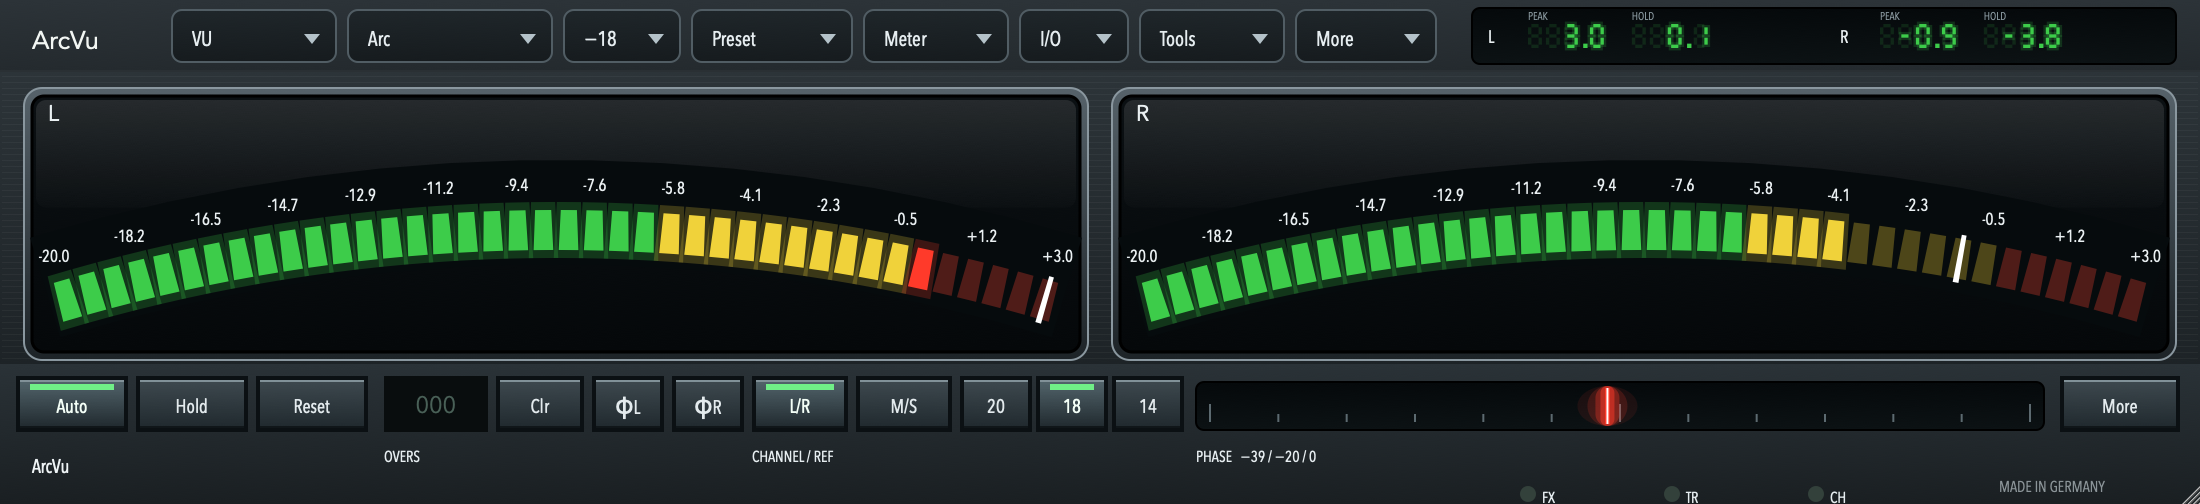
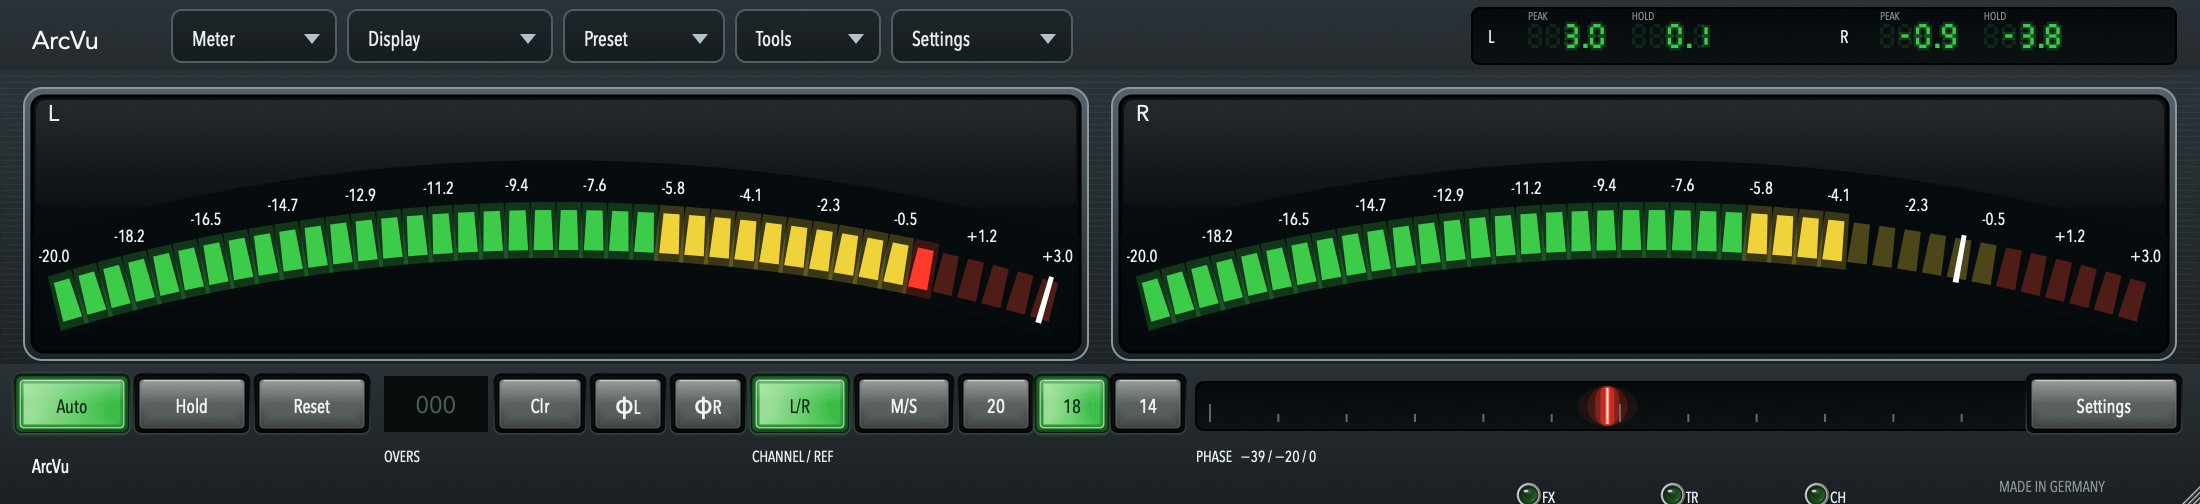
Refresh manual screenshots for the new UI and add the 1.0.1 release notes

diff --git a/qa/UiAudit.cpp b/qa/UiAudit.cpp
@@ -103,6 +103,16 @@ int main(int argc, char** argv) {
         shoot("arcvu-single", 0, 0, 0, 0, 0, true);
         shoot("arcvu-k14", 0, 1, 0, 3, 0, false);
         shoot("arcvu-ppm-ebu", 0, 1, 2, 8, 0, false);
+        // Menu pages at 1x on the Arc face, for the manual.
+        p.setSkin(0); p.setTheme(0);
+        parameter(p, "kind")->setValueNotifyingHost(0.0f);
+        parameter(p, "face")->setValueNotifyingHost(0.0f);
+        parameter(p, "single")->setValueNotifyingHost(0.0f);
+        { float vw = 1100.0f, vh = 500.0f; arcvu_view_size(0, &vw, &vh); e->setSize((int) vw, (int) vh); }
+        process(p); pump();
+        e->showPanel(2); pump(); snapshot(*e, out.getChildFile("arcvu-display-menu.png"));
+        e->parameterPanel()->onNavigate(9); pump(); snapshot(*e, out.getChildFile("arcvu-display-loudness.png"));
+        e->showPanel(6); pump(); snapshot(*e, out.getChildFile("arcvu-tools.png"));
         return failures ? 1 : 0;
     }
     if (argc > 2 && juce::String(argv[1]) == "--icon-render") {

diff --git a/docs/RELEASE_1.0.1.md b/docs/RELEASE_1.0.1.md
@@ -1,0 +1,32 @@
+# ArcVu 1.0.1
+
+A fix and polish release of the digital analogue meter by OpenGrid. Pre-release: it has been tested with the checks listed below, not yet in every host.
+
+## What changed
+
+- Saved sessions, presets and the copy/paste setup now carry a version number, so later builds can add settings without dropping the ones you saved. Sessions saved by 1.0.0 still load. Sessions saved by 1.0.1 do not restore their ArcVu settings in 1.0.0.
+- Fewer rare crashes and glitches: the meter is locked between the audio thread and the editor, a fault inside the meter can no longer take the host down, large host blocks no longer allocate on the audio thread, and the window zoom is saved once a second instead of on every resize step.
+- Lit keys and jewel lamps from GoodLookin DRI 0.2.1.
+- The source builds without private repositories.
+
+## Formats and requirements
+
+macOS 11 or later, Apple Silicon and Intel: VST3, Audio Unit, CLAP, LV2, AAX and Standalone. Windows and Linux packages are not part of this release.
+
+## Install
+
+Open the `.pkg` (or the DMG that holds it) and choose the formats you want.
+
+## Checks it passed
+
+Rust unit tests (74), the offscreen editor audit (983 checks, 0 failures), the state, real-time, key and detector test modes, `auval` for the Audio Unit, and the REAPER host suite for CLAP (all 9 checks).
+
+## Known limits
+
+- In the REAPER host suite, VST3, Audio Unit and LV2 fail the "state survives save and reopen" check. The signed 1.0.0 release fails the VST3 check the same way in the same REAPER, and the same code passes in CLAP and in a headless round trip, so it is a host-side difference that has not been explained. The Audio Unit and LV2 results match what 1.0.0 showed in October.
+- AAX is signed with PACE but has not been verified in Pro Tools. Studio One and Logic were not tested.
+- `pluginval` and `clap-validator` were not run.
+
+## Files
+
+`ArcVu-1.0.1-macos.pkg`, `ArcVu-1.0.1-macos.dmg`, `ArcVu-1.0.1-macos.sha256`, `ArcVu-User-Manual.pdf`, `opengrid-manifest.json`.
